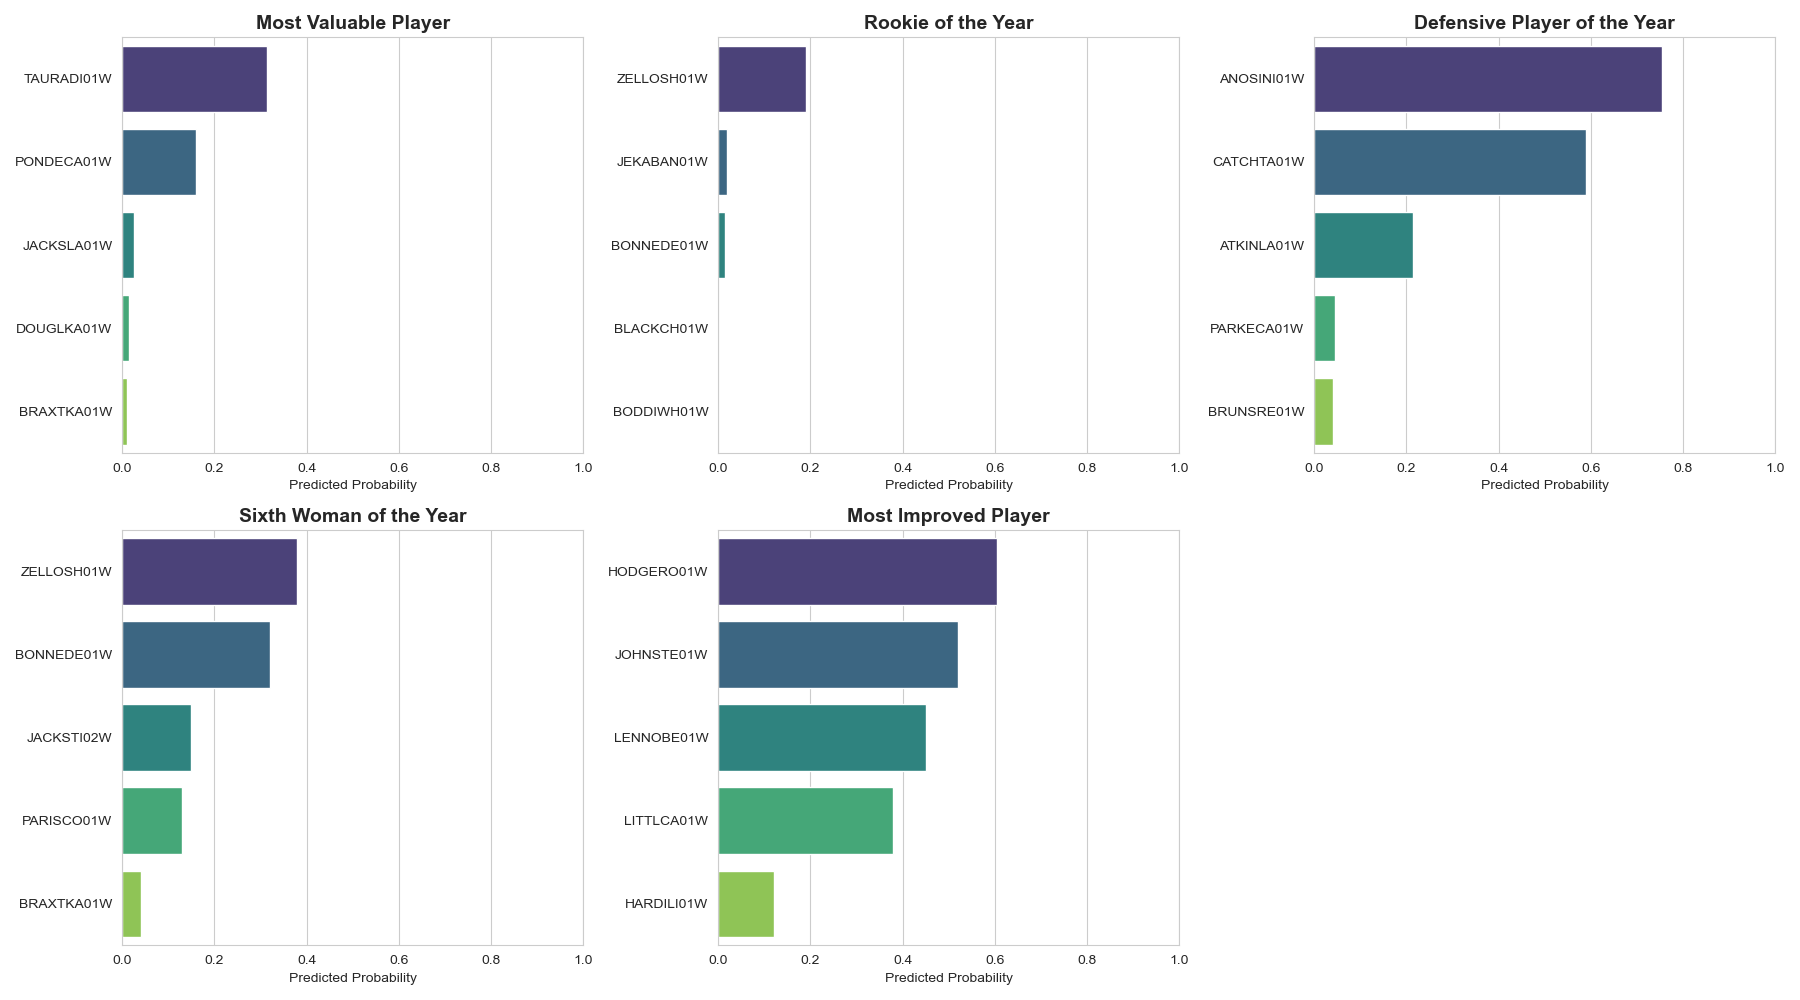
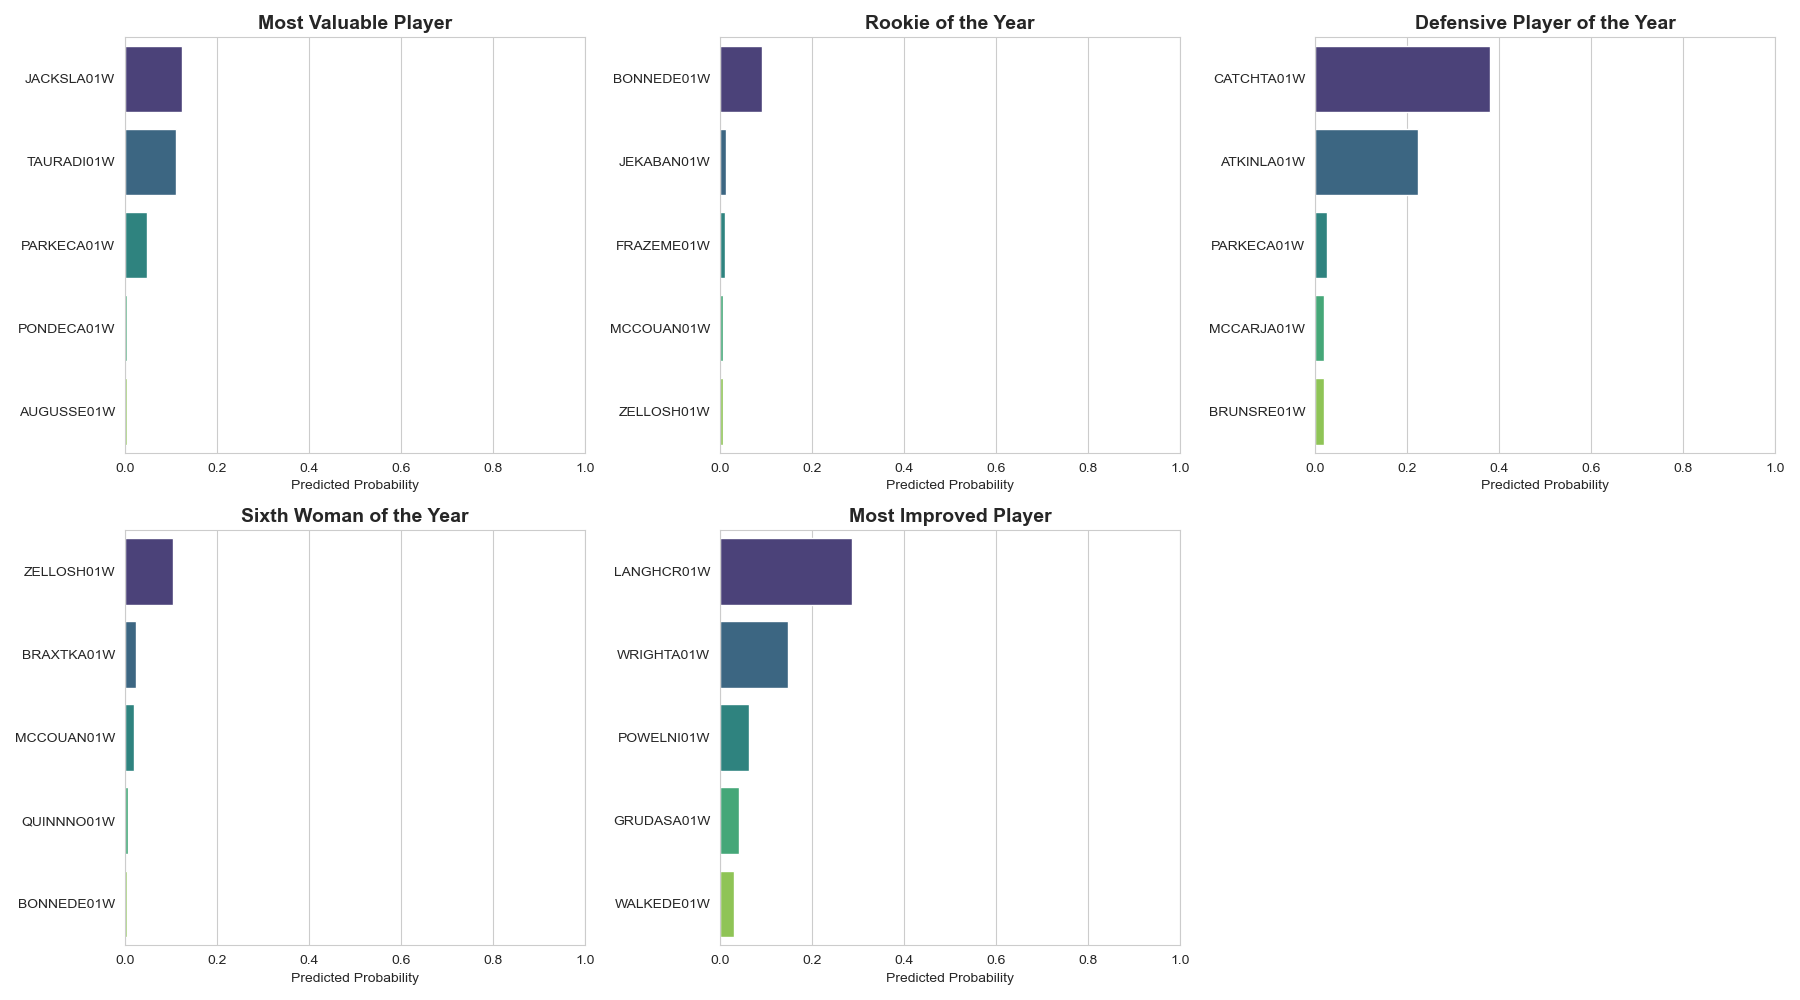
more changes

diff --git a/predict_awards.py b/predict_awards.py
@@ -19,7 +19,7 @@ print("="*80)
 # =========================================================
 clean_path = "data/cleaned/full_dataset_prepared.csv"
 awards_path = "data/awards_players.csv"
-output_dir = "results"
+output_dir = "results/predictions"
 plot_dir = "results/plots"
 
 os.makedirs(output_dir, exist_ok=True)
@@ -37,29 +37,65 @@ awards_df['playerID'] = awards_df['playerID'].astype(str).str.upper()
 print(f"Data Loaded. PLayers/Teams: {df.shape}, Awards: {awards_df.shape}")
 
 # =========================================================
-# 2. DATA AGGREGATION & CLEANING
+# 2. FEATURE ENGINEERING: TEAM CONTEXT
 # =========================================================
-metric_cols = ['GP', 'minutes', 'points', 'rebounds', 'assists', 'steals', 'blocks', 'turnovers', 'PF', 'fgMade', 'fgAttempted']
+print("Calculating Team Context (Ranks)...")
+
+if 'lgID' in df.columns:
+    df.rename(columns={'lgID': 'conference'}, inplace=True)
+elif 'lgID_x' in df.columns:
+    df.rename(columns={'lgID': 'conference'}, inplace=True)
+elif 'lgID_y' in df.columns:
+    df.rename(columns={'lgID': 'conference'}, inplace=True)
+
+if 'conference' not in df.columns:
+    df['conference'] = 'League'
+
+team_stats = df.groupby(['year', 'tmID', 'conference'])['win_pct'].mean().reset_index()
+team_stats['conf_rank'] = team_stats.groupby(['year', 'conference'])['win_pct'].rank(ascending=False, method='min')
+
+df = df.merge(team_stats[['year', 'tmID', 'conf_rank']], on=['year', 'tmID'], how='left')
+
+# =========================================================
+# 3. DATA AGGREGATION & ADVANCED METRICS
+# =========================================================
+metric_cols = ['GP', 'minutes', 'points', 'rebounds', 'assists', 'steals', 'blocks', 'turnovers', 'PF', 'fgMade', 'fgAttempted', 'ftMade', 'ftAttempted']
 
 player_stats = df.groupby(['playerID', 'year'], as_index=False).agg({
     **{col: 'sum' for col in metric_cols},
     'win_pct': 'mean',
+    'conf_rank': 'mean',
     'experience_years': 'max',
     'GS': 'sum'
 })
 
+player_stats['ts_pct'] = player_stats['points'] / (2 * (player_stats['fgAttempted'] + 0.44 * player_stats['ftAttempted']))
+player_stats['ts_pct'] = player_stats['ts_pct'].fillna(0)
+
 player_stats['efficiency'] = (
-    player_stats['points'] + player_stats['rebounds'] + player_stats['assists'] + player_stats['steals'] + player_stats['blocks'] - player_stats['turnovers'] - (player_stats['fgAttempted'] - player_stats['fgMade'])
+    player_stats['points'] + player_stats['rebounds'] + player_stats['assists'] + player_stats['steals'] + player_stats['blocks'] - player_stats['turnovers'] - (player_stats['fgAttempted'] - player_stats['fgMade']) - (player_stats['ftAttempted'] - player_stats['ftMade'])
 )
 
-for col in ['points', 'rebounds', 'assists', 'steals', 'blocks']:
+player_stats['def_score'] = player_stats['steals'] * 2 + player_stats['blocks'] * 2 + player_stats['rebounds']
+
+for col in ['points', 'rebounds', 'assists', 'steals', 'blocks', 'efficiency']:
     player_stats[f'{col}_pg'] = player_stats[col] / player_stats['GP'].replace(0,1)
 
-player_stats.sort_values(['playerID', 'year'], inplace=True)
-player_stats['prev_efficiency'] = player_stats.groupby('playerID')['efficiency'].shift(1).fillna(0)
-player_stats['efficiency_delta'] = player_stats['efficiency'] - player_stats['prev_efficiency']
 player_stats['starter_ratio'] = player_stats['GS'] / player_stats['GP'].replace(0,1)
 
+z_cols = ['points_pg', 'efficiency_pg', 'rebounds_pg', 'assists_pg', 'steals_pg', 'blocks_pg', 'def_score']
+print("Calculating Z-Scores...(Relative to League Average)")
+
+for col in z_cols:
+    player_stats[f'z_{col}'] = player_stats.groupby('year')[col].transform(lambda x: (x - x.mean()) / x.std()).fillna(0)
+
+player_stats.sort_values(['playerID', 'year'], inplace=True)
+player_stats['prev_efficiency_pg'] = player_stats.groupby('playerID')['efficiency_pg'].shift(1).fillna(0)
+player_stats['efficiency_delta'] = player_stats['efficiency_pg'] - player_stats['prev_efficiency_pg']
+
+# =========================================================
+# 4. TARGET MAPPING & NARRATIVE FEATURES
+# =========================================================
 target_awards = [
     'Most Valuable Player',
     'Rookie of the Year',
@@ -69,6 +105,7 @@ target_awards = [
 ]
 
 print("\n Mapping targets for awards...")
+
 for award in target_awards:
     winners = awards_df[awards_df['award'] == award][['playerID', 'year']]
     winners['is_winner'] = 1
@@ -78,14 +115,11 @@ for award in target_awards:
     player_stats.rename(columns={'is_winner': col_name}, inplace=True)
     player_stats[col_name] = player_stats[col_name].fillna(0)
 
-total_winners = player_stats[[c for c in player_stats.columns if 'target_' in c]].sum().sum()
-if total_winners == 0:
-    print("WARNING: No award winners matched! Check ID formatting.")
-else:
-    print(f"Successfully mapped {int(total_winners)} historical awards")
+    prev_col_name = f"prev_winner_{award.replace(' ', '_')}"
+    player_stats[prev_col_name] = player_stats.groupby('playerID')[col_name].shift(1).fillna(0)
 
 # =========================================================
-# 3. DEFINE TRAINING LOGIC
+# 5. MODEL TRAINING
 # =========================================================
 TEST_YEAR = 10
 train_data = player_stats[player_stats['year'] < TEST_YEAR].fillna(0)
@@ -101,11 +135,11 @@ def predict_award(award_name, features, filter_func=None):
     target_col = f"target_{award_name.replace(' ', '_')}"
 
     if filter_func:
-        train_set = train_data[filter_func(train_data)]
-        test_set = test_data[filter_func(test_data)]
+        train_set = train_data[filter_func(train_data)].copy()
+        test_set = test_data[filter_func(test_data)].copy()
     else:
-        train_set = train_data
-        test_set = test_data
+        train_set = train_data.copy()
+        test_set = test_data.copy()
     
     if train_set[target_col].sum() == 0:
         return None
@@ -118,7 +152,7 @@ def predict_award(award_name, features, filter_func=None):
     X_train_scaled = scaler.fit_transform(X_train)
     X_test_scaled = scaler.transform(X_test)
 
-    clf = RandomForestClassifier(n_estimators=200, random_state=42, class_weight='balanced')    
+    clf = RandomForestClassifier(n_estimators=300, random_state=42, class_weight='balanced')    
     clf.fit(X_train_scaled, y_train)
 
     if len(clf.classes_) > 1:
@@ -126,10 +160,10 @@ def predict_award(award_name, features, filter_func=None):
     else:
         probs = np.zeros(len(X_test))
 
-    test_set = test_set.copy()
     test_set['probability'] = probs
 
     top_candidates = test_set.sort_values('probability', ascending=False).head(5)
+    race_data[award_name] = top_candidates[['playerID', 'probability', 'conf_rank',] if 'conf_rank' in features else ['playerID', 'probability']]
 
     winner_row = top_candidates.iloc[0]
     actual_row = test_set[test_set[target_col] == 1]
@@ -138,7 +172,7 @@ def predict_award(award_name, features, filter_func=None):
     prediction_summary.append({
         'Award': award_name,
         'Predicted Winner': winner_row['playerID'],
-        'Confidence': f"{winner_row['probability']:.1%}",
+        'Prob': f"{winner_row['probability']:.2f}",
         'Actual Winner': actual_winner,
         'Correct': "YES" if winner_row['playerID'] == actual_winner else "NO"
     })
@@ -150,25 +184,26 @@ def predict_award(award_name, features, filter_func=None):
     return clf
 
 # =========================================================
-# 4. EXECUTE PREDICTIONS
+# 6. EXECUTE PREDICTIONS
 # =========================================================
-mvp_cols = ['points_pg', 'efficiency', 'win_pct', 'minutes', 'rebounds_pg', 'assists_pg']
-mvp_model = predict_award('Most Valuable Player', mvp_cols)
+mvp_features = ['z_points_pg', 'z_efficiency_pg', 'ts_pct', 'conf_rank', 'win_pct', 'prev_winner_Most_Valuable_Player']
+mvp_model = predict_award('Most Valuable Player', mvp_features)
 
-roy_cols = ['points_pg', 'rebounds_pg', 'efficiency', 'minutes', 'GP']
-predict_award('Rookie of the Year', roy_cols, lambda x: x['experience_years'] == 0)
+roy_features = ['z_points_pg', 'z_rebounds_pg', 'z_efficiency_pg', 'minutes', 'GP']
+predict_award('Rookie of the Year', roy_features, lambda x: x['experience_years'] == 0)
 
-train_data['def_score'] = train_data['steals']*2 + train_data['blocks']*2 + train_data['rebounds']
-test_data['def_score'] = test_data['steals']*2 + test_data['blocks']*2 + test_data['rebounds']
-dpoy_cols = ['steals_pg', 'blocks_pg', 'rebounds_pg', 'def_score']
-predict_award('Defensive Player of the Year', dpoy_cols)
+dpoy_features = ['z_steals_pg', 'z_blocks_pg', 'z_rebounds_pg', 'z_def_score']
+predict_award('Defensive Player of the Year', dpoy_features)
 
-six_cols = ['points_pg', 'efficiency', 'minutes', 'starter_ratio']
-predict_award('Sixth Woman of the Year', six_cols, lambda x: x['starter_ratio'] < 0.5)
+six_features = ['z_points_pg', 'z_efficiency_pg', 'ts_pct', 'minutes']
+predict_award('Sixth Woman of the Year', six_features, lambda x: x['starter_ratio'] < 0.5)
 
-mip_features = ['efficiency_delta', 'points_pg', 'efficiency', 'minutes']
+mip_features = ['efficiency_delta', 'z_points_pg', 'minutes']
 predict_award('Most Improved Player', mip_features, lambda x: x['experience_years'] > 0)
 
+# =========================================================
+# 7. SAVE RESULTS
+# =========================================================
 results_df = pd.DataFrame(prediction_summary)
 csv_path = f"{output_dir}/season_10_award_predictions.csv"
 results_df.to_csv(csv_path, index=False)
@@ -176,8 +211,20 @@ print(f"\nResults saved to: {csv_path}")
 print(results_df)
 
 # =========================================================
-# 5. VISUALIZATIONS
+# 8. VISUALIZATIONS
 # =========================================================
+if mvp_model:
+    plt.figure(figsize=(10,6))
+    importances = pd.DataFrame({
+        'Feature': mvp_features,
+        'Importance': mvp_model.feature_importances_
+    }).sort_values(by='Importance', ascending=False)
+
+    sns.barplot(x='Importance', y='Feature', data=importances, palette='magma', hue='Feature', legend=False)
+    plt.title('Drivers of MVP Prediction (Team Success vs Stats)')
+    plt.tight_layout()
+    plt.savefig(f"{plot_dir}/mvp_factors.png")
+
 num_awards = len(race_data)
 fig, axes = plt.subplots(2,3, figsize=(18,10))
 axes = axes.flatten()
@@ -197,15 +244,3 @@ plt.tight_layout()
 viz_path = f"{plot_dir}/award_races_Season_11.png"
 plt.savefig(viz_path)
 print(f"Visualization saved to: {viz_path}")
-
-if mvp_model:
-    plt.figure(figsize=(10,6))
-    importances = pd.DataFrame({
-        'Feature': mvp_cols,
-        'Importance': mvp_model.feature_importances_
-}).sort_values(by='Importance', ascending=False)
-
-    sns.barplot(x='Importance', y='Feature', data=importances, palette='magma', hue='Feature', legend=False)
-    plt.title('What drives MVP Predictions?', fontsize=16)
-    plt.tight_layout()
-    plt.savefig(f"{plot_dir}/mvp_factors.png")
